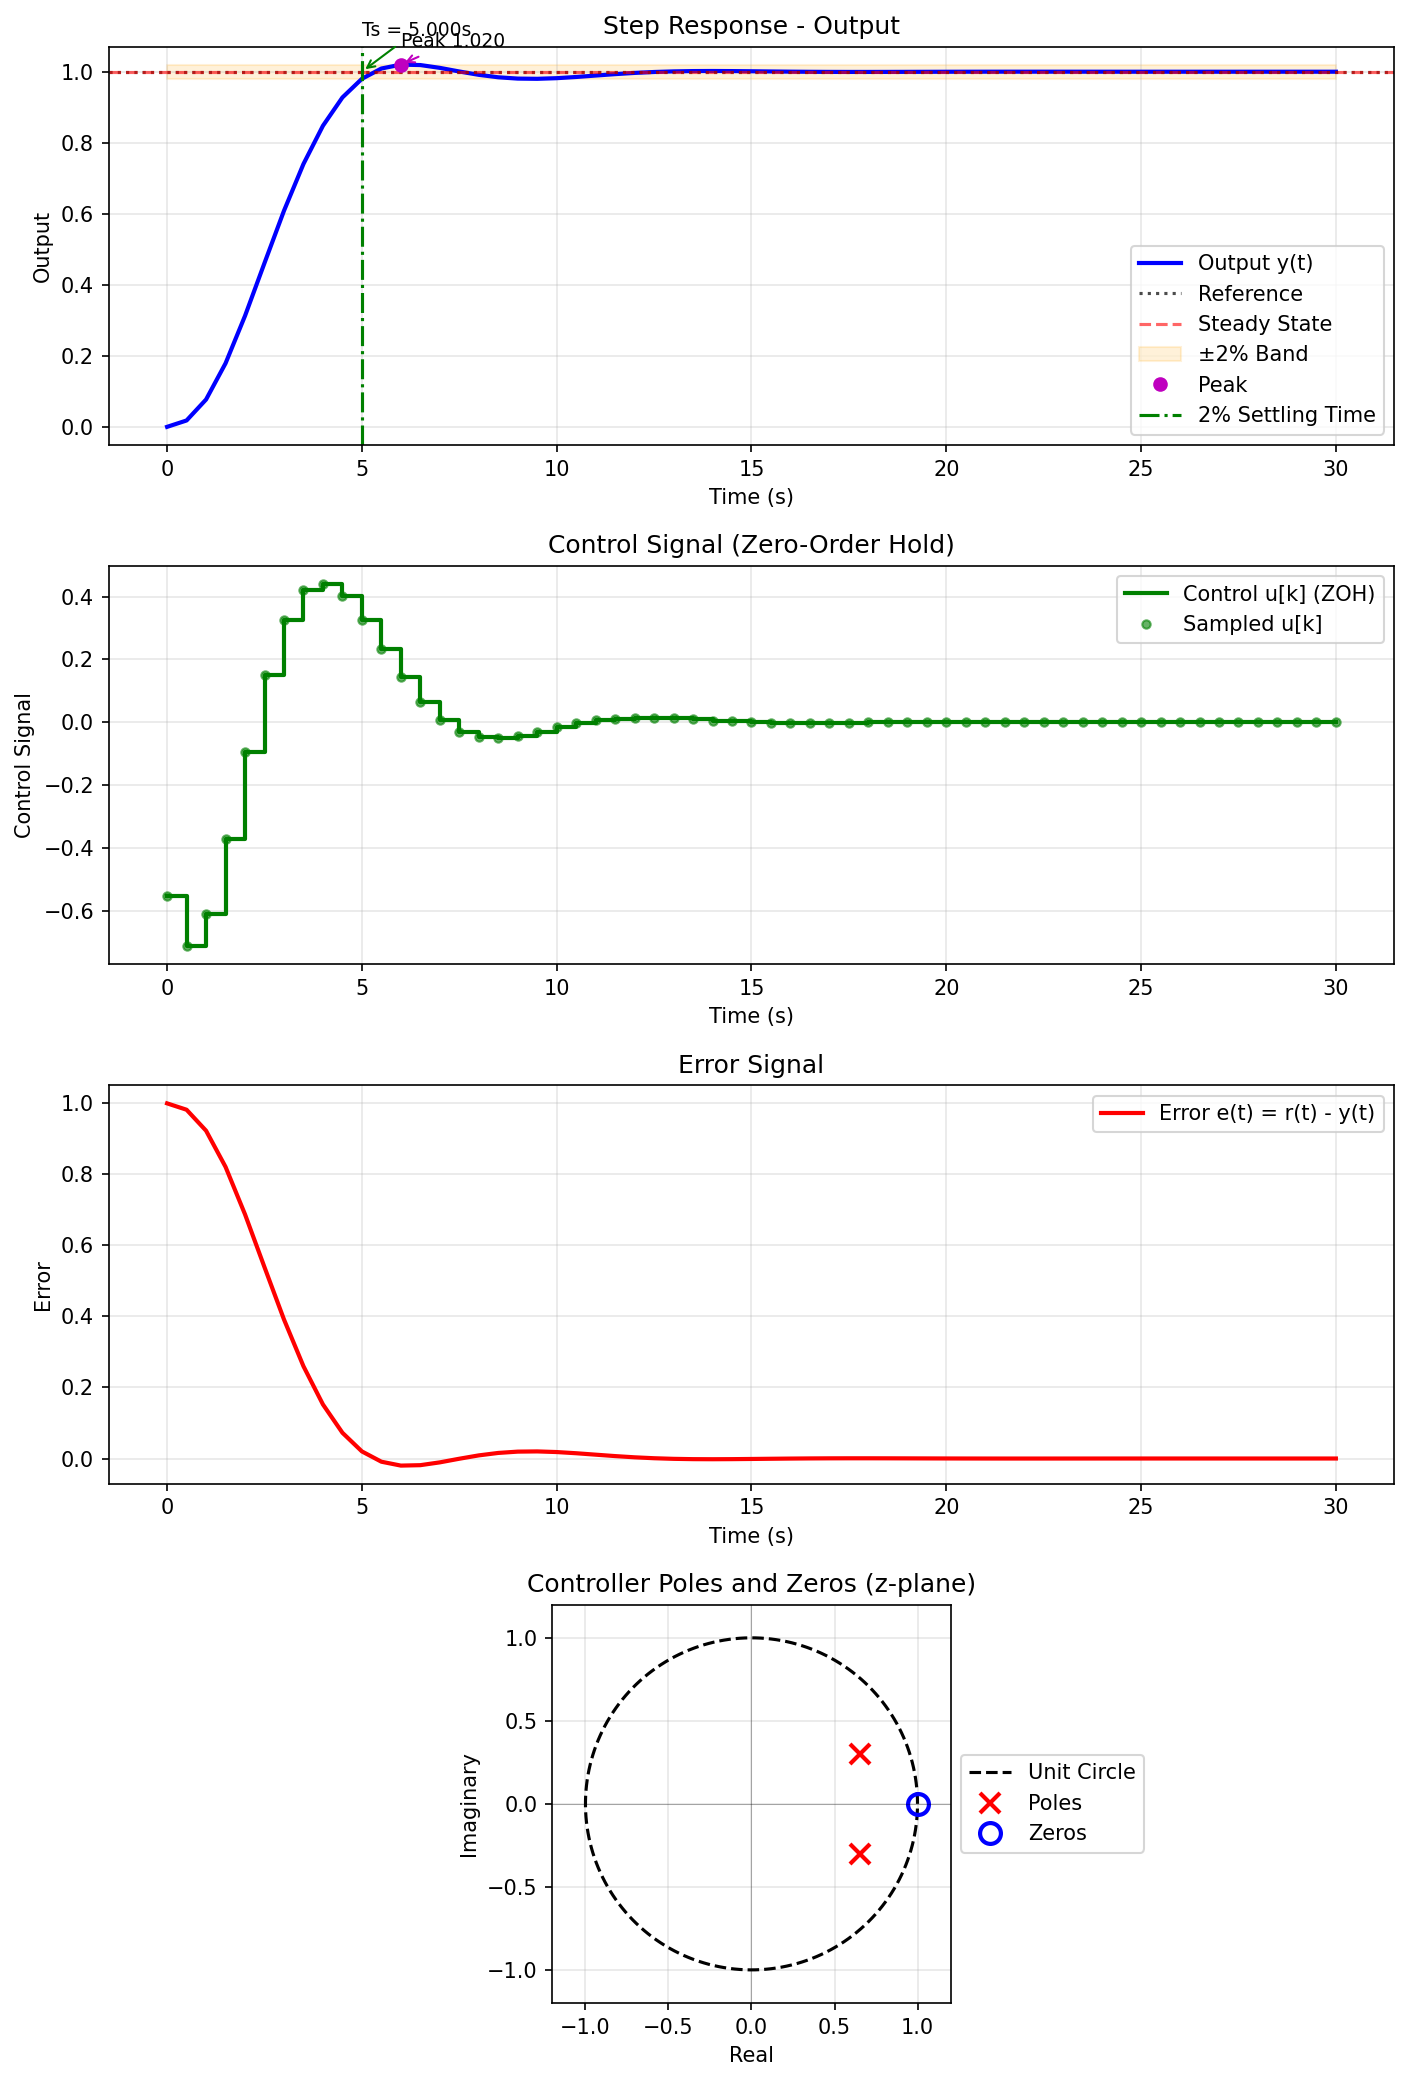
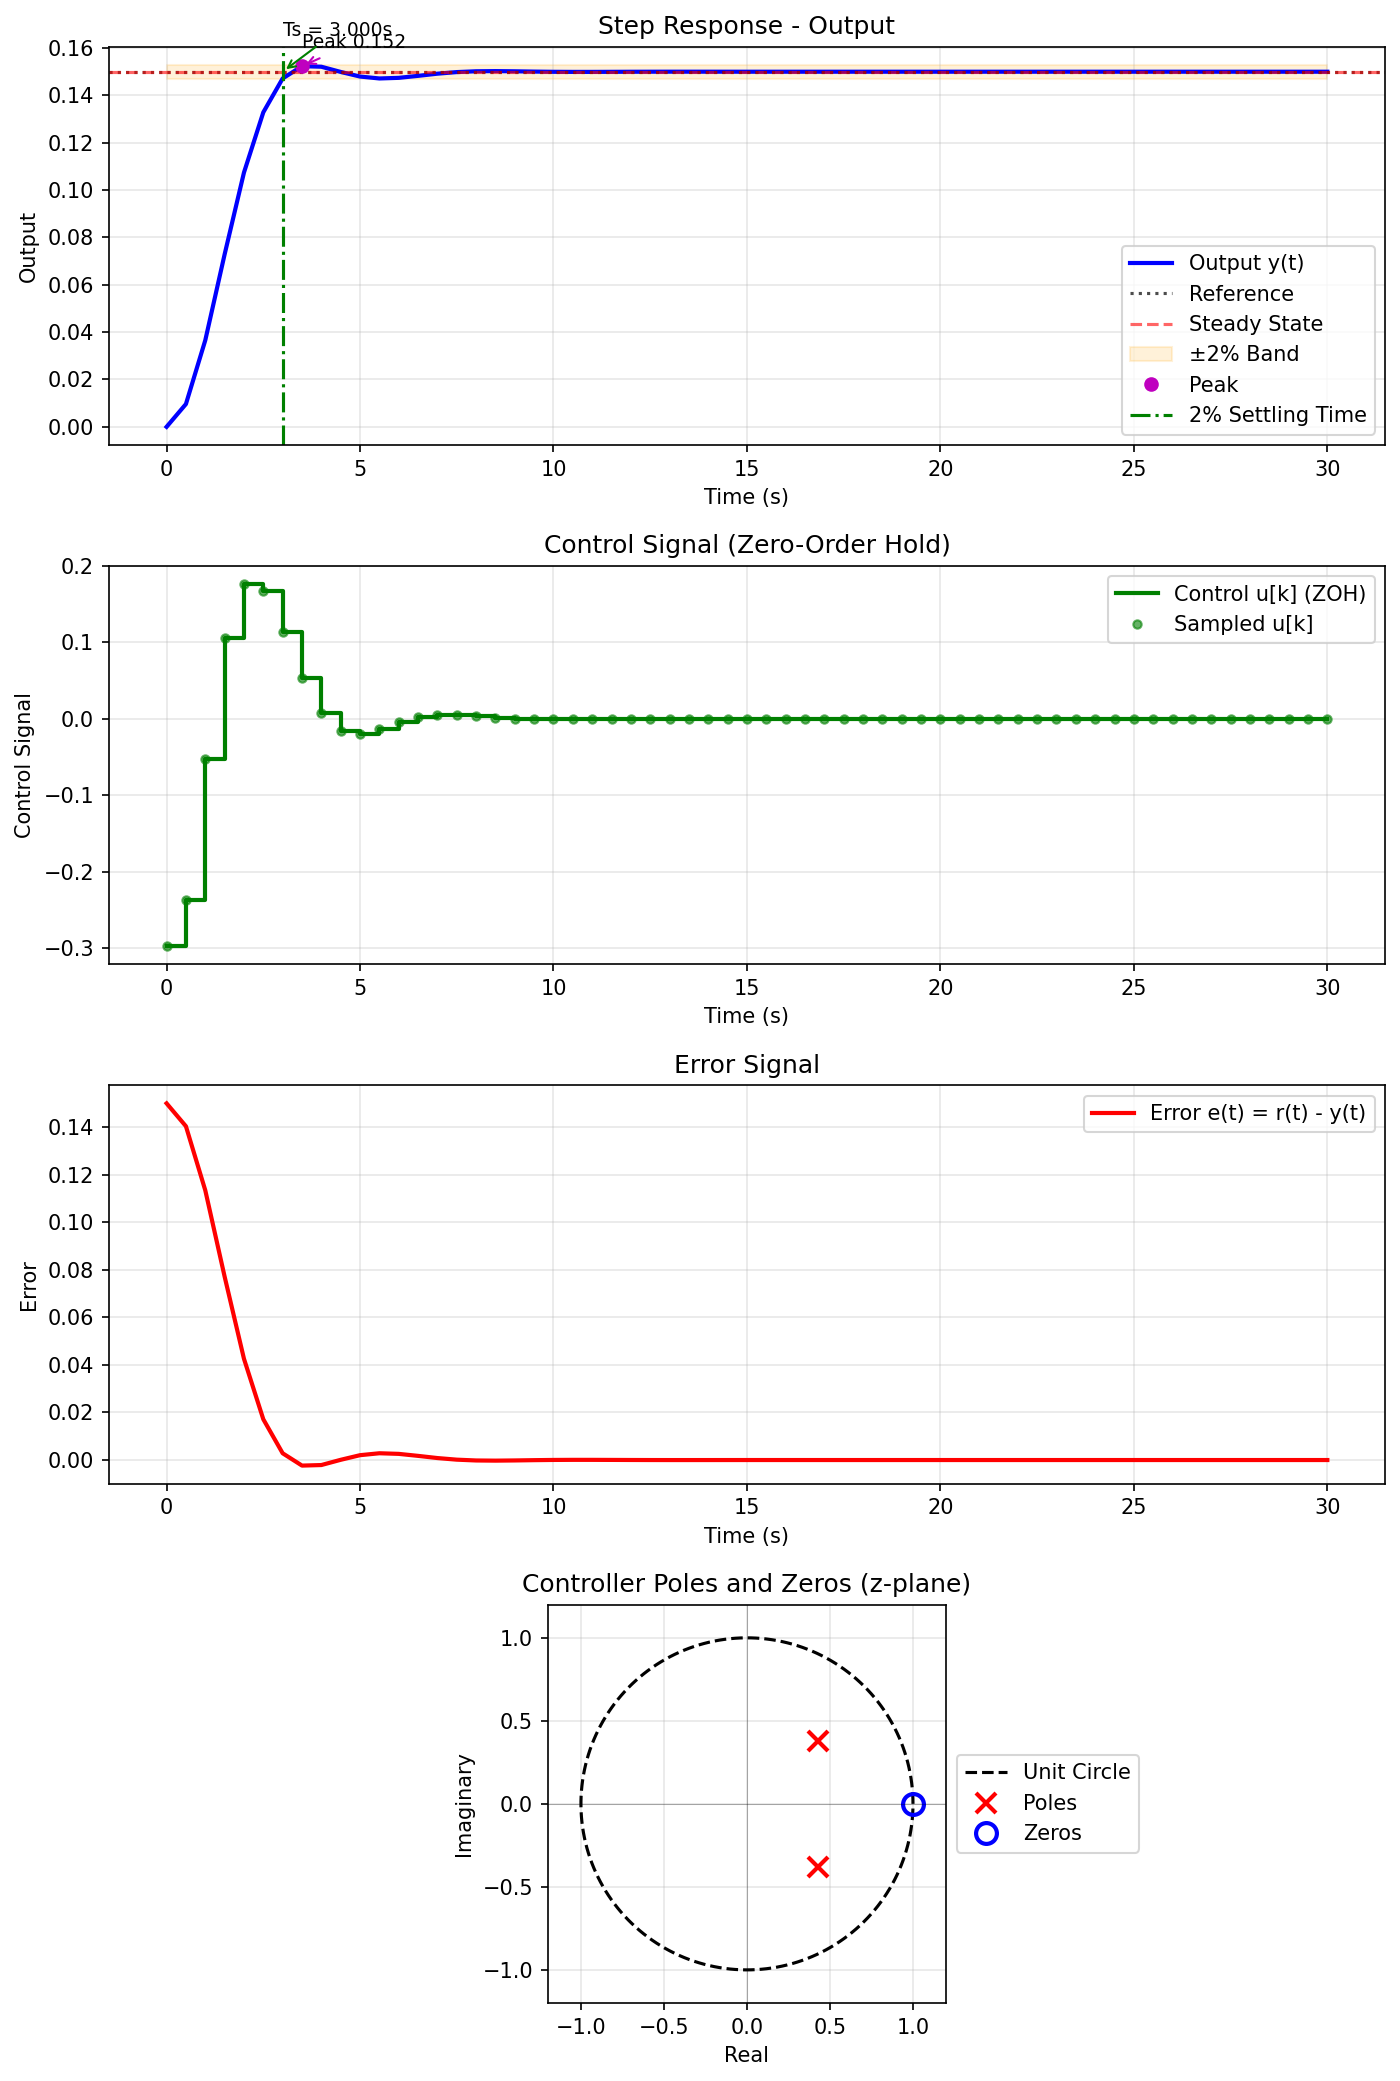
Better tolerance handling

diff --git a/src/tune_discrete_controller.py b/src/tune_discrete_controller.py
@@ -330,6 +330,7 @@ def tune_discrete_controller(
     random_state: int | None = None,
     verbose: bool = True,
     cost_weights: CostWeights | None = None,
+    de_tol: float = 0.001,
 ) -> Tuple[np.ndarray, np.ndarray, dict]:
     """
     Search for discrete controller coefficients meeting the provided specs.
@@ -368,6 +369,8 @@ def tune_discrete_controller(
         Print optimization progress
     cost_weights : CostWeights, optional
         Weights for cost function components. If None, uses default weights.
+    de_tol : float, optional
+        Convergence tolerance passed to scipy's differential_evolution (default: 0.001)
 
     Returns:
     --------
@@ -425,7 +428,7 @@ def tune_discrete_controller(
         polish=True,
         updating="deferred",
         disp=verbose,
-        tol=0.001,
+        tol=de_tol,
     )
 
     if best_record["params"] is None:
@@ -465,6 +468,7 @@ def tune_discrete_controller_with_order_search(
     maxiter: int = 60,
     random_state: int | None = None,
     verbose: bool = True,
+    de_tol: float = 0.001,
     cost_weights: CostWeights | None = None,
 ) -> Tuple[np.ndarray, np.ndarray, dict, int, int]:
     """
@@ -499,6 +503,8 @@ def tune_discrete_controller_with_order_search(
         Random seed for reproducibility
     verbose : bool, optional
         Print optimization progress
+    de_tol : float, optional
+        Convergence tolerance for differential evolution (default: 0.001)
     cost_weights : CostWeights, optional
         Weights for cost function components. If None, uses default weights.
 
@@ -585,6 +591,7 @@ def tune_discrete_controller_with_order_search(
                 maxiter=maxiter,
                 random_state=random_state,
                 verbose=False,  # Suppress individual tuning output
+                de_tol=de_tol,
                 cost_weights=cost_weights,
             )
 

diff --git a/src/main.py b/src/main.py
@@ -112,6 +112,7 @@ def main():
     step_amplitude = json_data.get("step_amplitude", 1.0)
     popsize = json_data.get("popsize", 25)
     maxiter = json_data.get("maxiter", 60)
+    de_tol = json_data.get("tol", 0.001)
     random_state = json_data.get("random_state", None)
     bound_mag = json_data.get("bound_mag", 2.0)
     search_orders = json_data.get("search_orders", False)
@@ -142,6 +143,7 @@ def main():
                 maxiter=maxiter,
                 random_state=random_state,
                 verbose=verbose,
+                de_tol=de_tol,
                 cost_weights=cost_weights,
             )
         )
@@ -200,6 +202,7 @@ def main():
             maxiter=maxiter,
             random_state=random_state,
             verbose=verbose,
+            de_tol=de_tol,
             cost_weights=cost_weights,
         )
 

diff --git a/README.md b/README.md
@@ -77,6 +77,7 @@ The tuner reads all configuration from `specs.json`. Here's the structure:
   "step_amplitude": 1.0,
   "popsize": 20,
   "maxiter": 100,
+  "tol": 0.001,
   "num_order": 1,
   "den_order": 2,
   "bound_mag": 2.0,
@@ -126,8 +127,9 @@ The tuner reads all configuration from `specs.json`. Here's the structure:
 - `maxiter`: Maximum number of iterations (default: 60)
 - `bound_mag`: Magnitude bound for parameter search range (default: 2.0)
 - `random_state`: Random seed for reproducibility (null = random)
+- `tol`: Relative convergence tolerance for differential evolution (default: 0.001). Set to 0 to disable tolerance-based early stopping.
 
-**Note on Early Stopping:** The optimizer uses a convergence tolerance (`tol=0.001`) that may cause it to stop before reaching `maxiter` if the relative improvement in the best solution falls below 0.1% between iterations. This is normal behavior and indicates the optimizer has converged to a local minimum. If you want to force the optimizer to run for the full `maxiter` iterations, you can modify the `tol` parameter in the code (setting `tol=0` disables early stopping).
+**Note on Early Stopping:** The optimizer uses a convergence tolerance (`tol`, default `0.001`) that may cause it to stop before reaching `maxiter` if the relative improvement in the best solution falls below 0.1% between iterations. This is normal behavior and indicates the optimizer has converged to a local minimum. Adjust the `tol` value in `specs.json` (set `tol` to `0` to disable tolerance-based early stopping) if you want the optimizer to continue iterating longer.
 
 **Controller Structure:**
 
@@ -171,8 +173,10 @@ The tuner reads all configuration from `specs.json`. Here's the structure:
     "control_signal_limit_weight": 2.0
   },
   "t_end": 30.0,
+  "step_amplitude": 0.15,
   "popsize": 20,
   "maxiter": 250,
+  "tol": 0.0,
   "num_order": 1,
   "den_order": 2,
   "quiet": false,
@@ -203,8 +207,10 @@ The tuner reads all configuration from `specs.json`. Here's the structure:
     "control_signal_limit_weight": 2.0
   },
   "t_end": 1.0,
+  "step_amplitude": 1.4,
   "popsize": 20,
   "maxiter": 250,
+  "tol": 0.0,
   "num_order": 1,
   "den_order": 2,
   "quiet": false,
@@ -297,7 +303,7 @@ The generated plot shows four subplots:
 - Using a higher-order controller (increase `den_order`)
 - Relaxing performance specifications
 
-**Optimization stops early before maxiter**: This is normal behavior. The optimizer uses a convergence tolerance (`tol=0.001`) and stops when the relative improvement falls below 0.1%. This indicates convergence to a local minimum. The optimizer may still find better solutions in later iterations, but the improvement rate has slowed significantly. If you want to force full iterations, you can modify the code to set `tol=0`.
+**Optimization stops early before maxiter**: This is normal behavior. The optimizer uses a convergence tolerance (`tol=0.001`) and stops when the relative improvement falls below 0.1%. This indicates convergence to a local minimum. The optimizer may still find better solutions in later iterations, but the improvement rate has slowed significantly. If you want to force full iterations, you can modify the specs to set `tol=0`.
 
 **Optimization doesn't converge**: Try:
 
